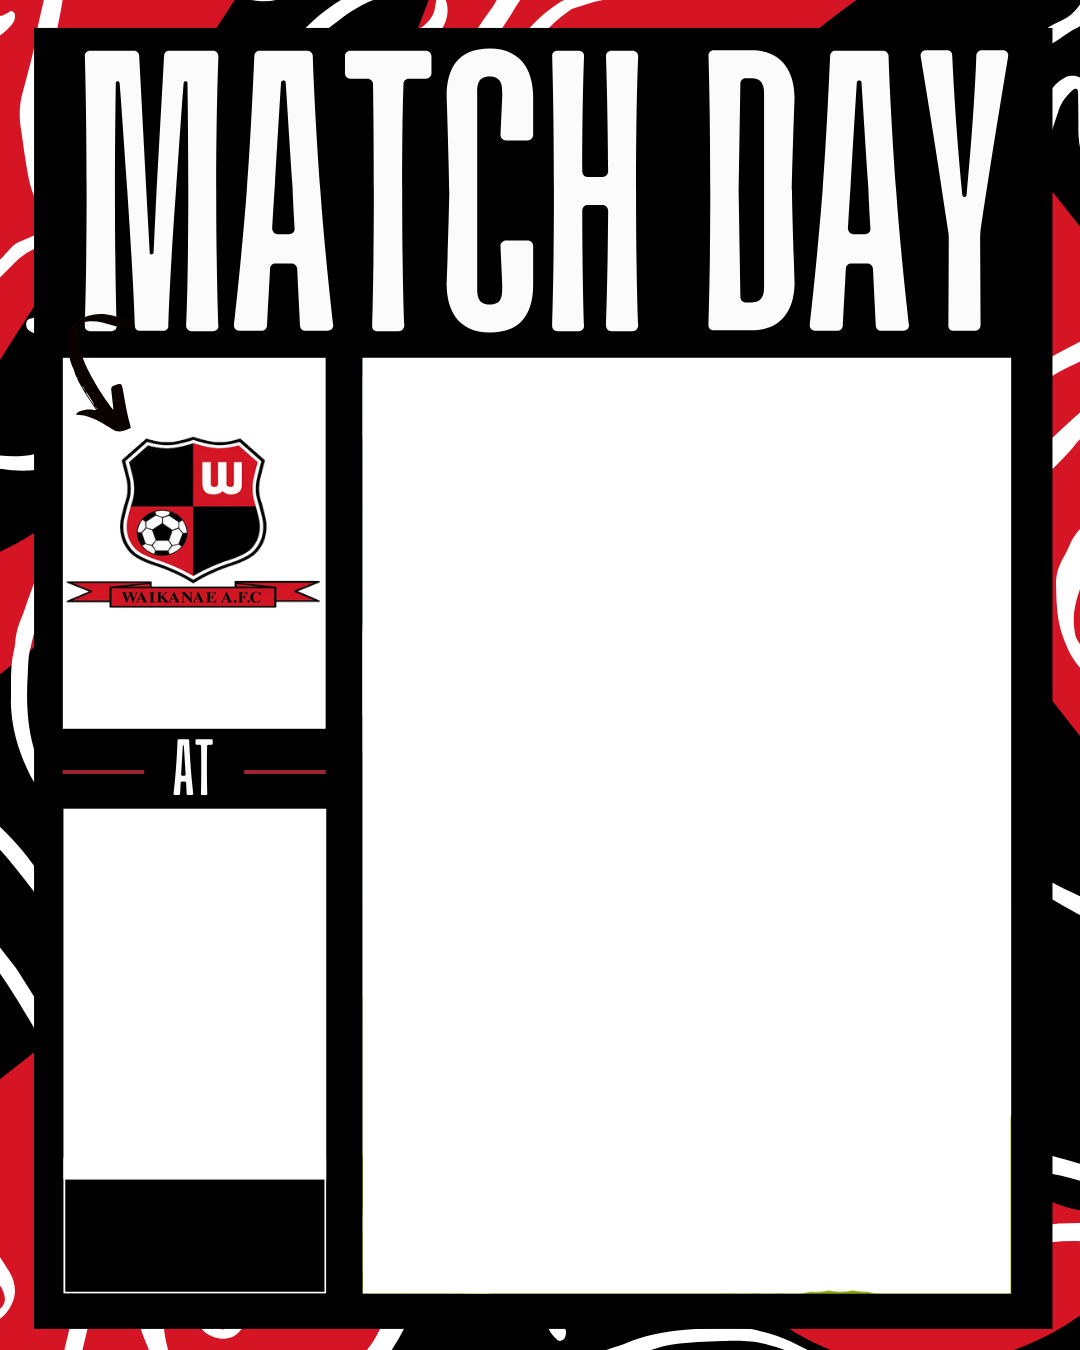
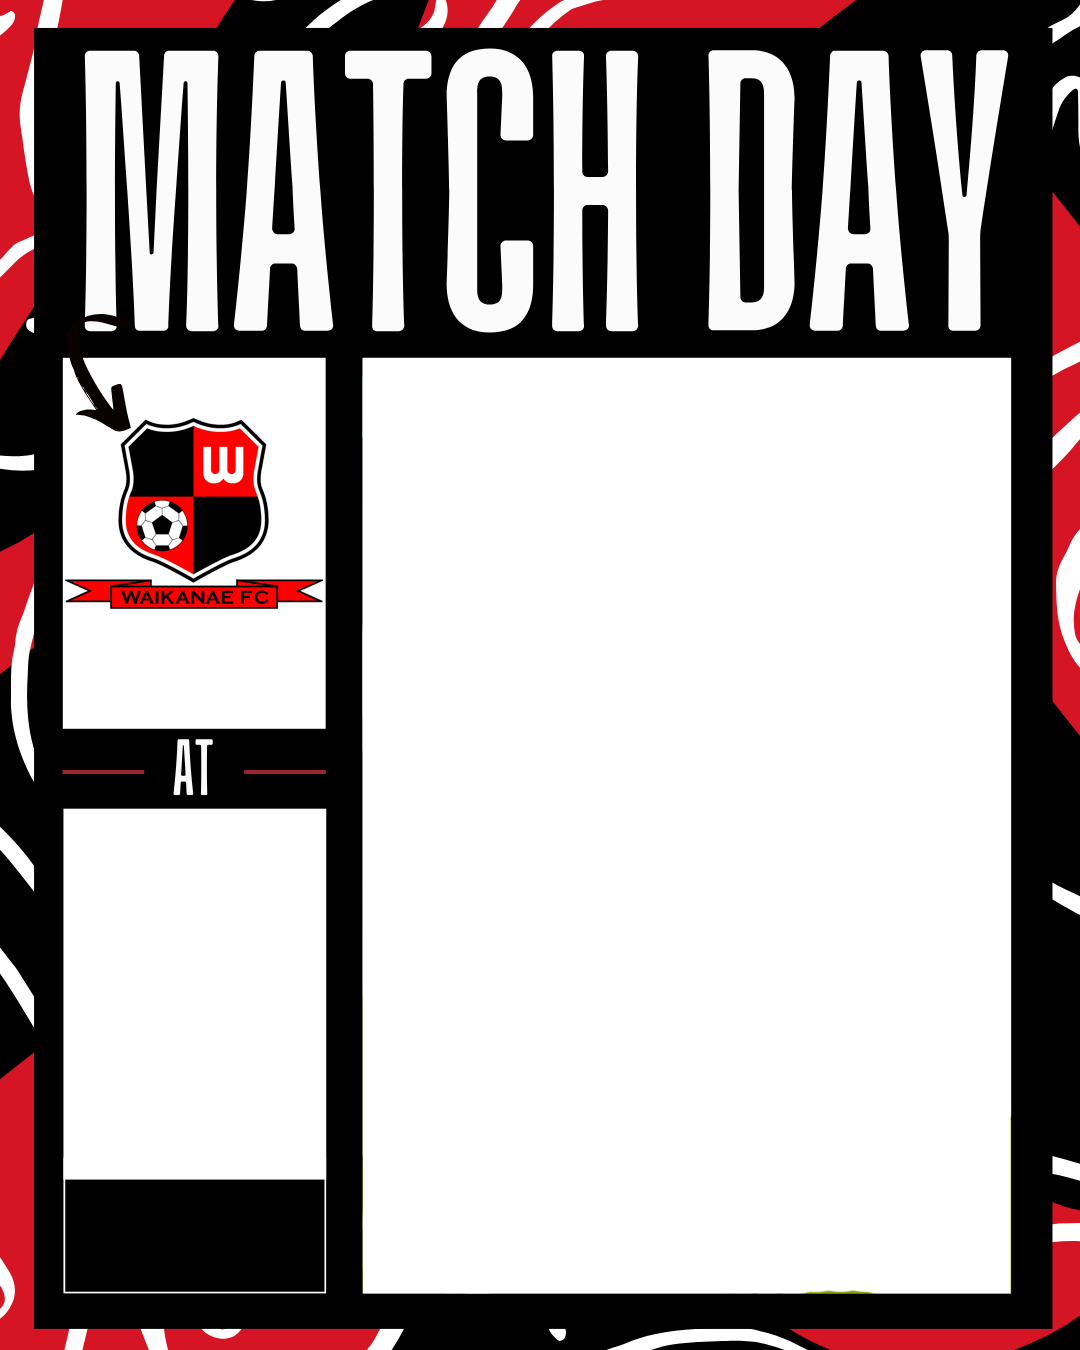
Test adding extra clubs

Changed region(s): [[0.0611, 0.3111, 0.3056, 0.4667]]

diff --git a/resources/matchdayextras/script.js b/resources/matchdayextras/script.js
@@ -91,7 +91,7 @@ function generateImage(home,away,crest,placetext,timetext){
 	
 	base_image.src = templateImg;
 	
-	crest_image.src = "./clubicons/" + crest + ".png";
+	crest_image.src = "./Clubs/" + crest + "/large.png";
 	let images = [base_image, crest_image]
 	
 	function imageIsLoaded(image) {
